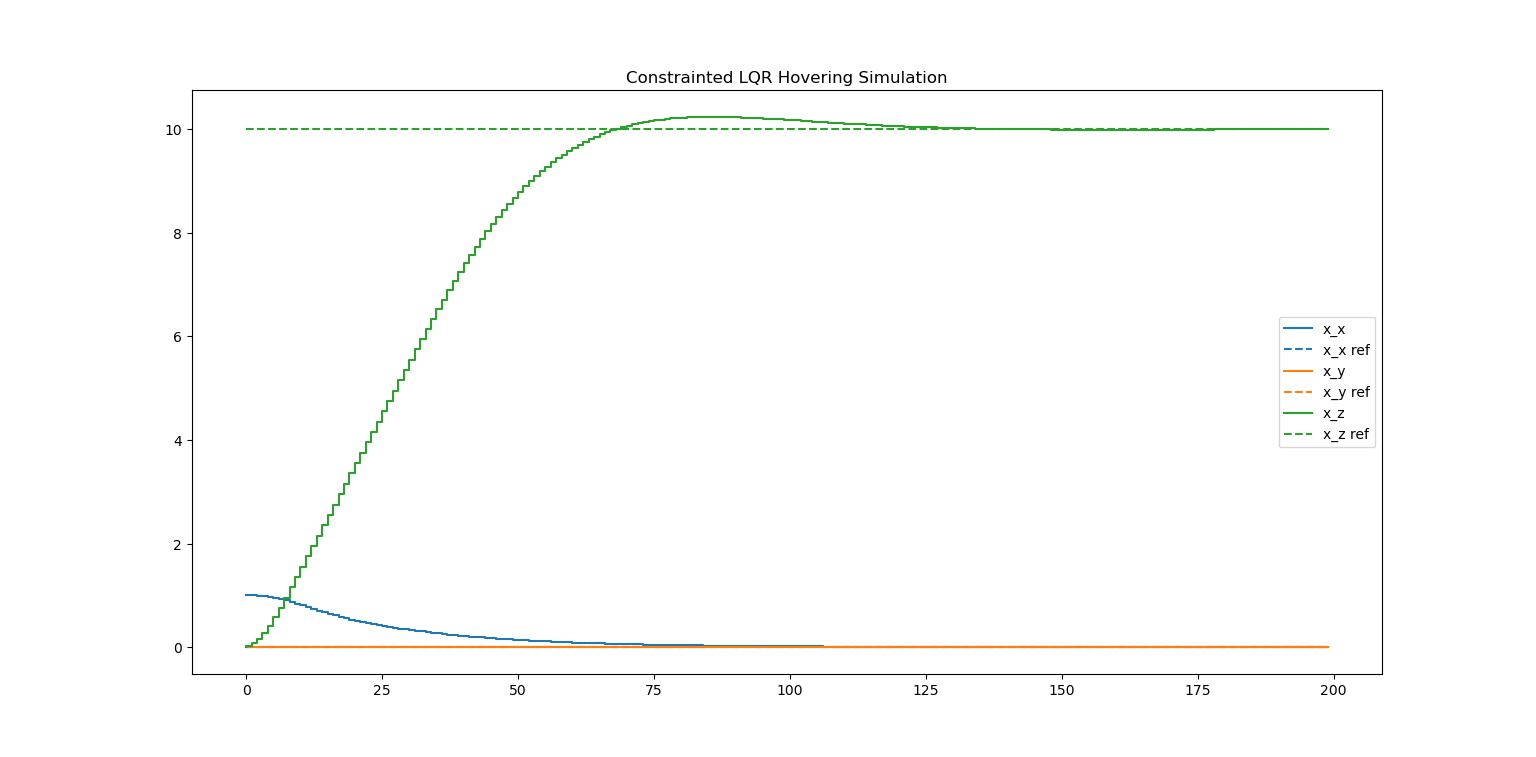
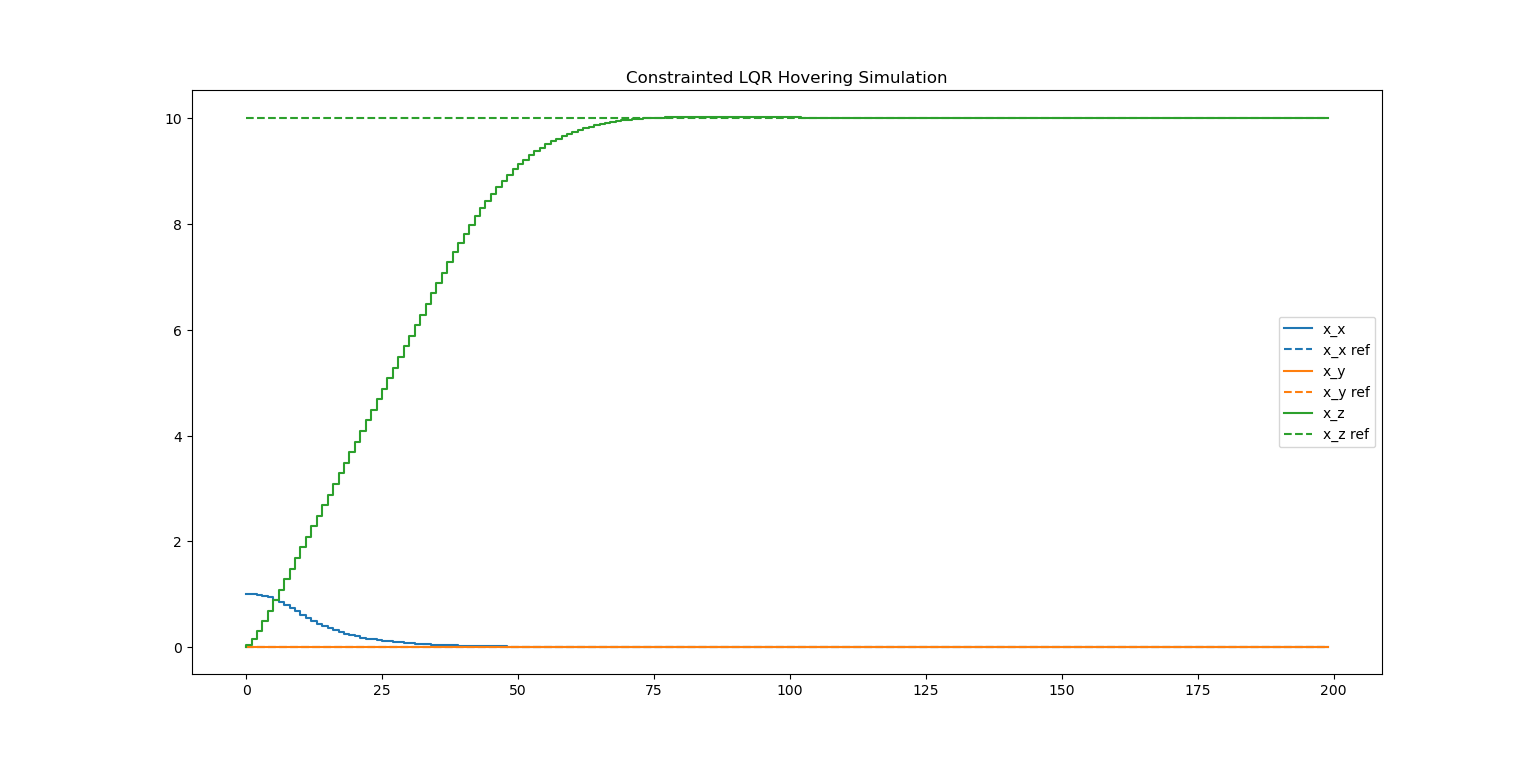
Terminal cost gain change from eyes to P

diff --git a/src/model/drone_dynamics.py b/src/model/drone_dynamics.py
@@ -30,7 +30,7 @@ class Quadrotor:
         x_operating = np.zeros((12, 1))
         u_operating = np.array([10, 0, 0, 0]).reshape((-1, 1))  # hovering (mg 0 0 0)
         self.A, self.B, self.C, self.D = self.linearize(x_operating, u_operating)
-        self.K = self.make_dlqr_controller()
+        self.K, self.P = self.make_dlqr_controller()
 
     def build_x_dot(self):
         self.x_dot = ca.vertcat(self.x[1], -self.x[0] + self.u)
@@ -101,8 +101,8 @@ class Quadrotor:
         self.csys = sys_continuous
         sys_discrete = ctrl.c2d(sys_continuous, self.dt, method='zoh')
         self.dsys = sys_discrete
-        K, _, _ = ctrl.dlqr(self.dsys.A, self.dsys.B, Q, R)
-        return K
+        K, P, _ = ctrl.dlqr(self.dsys.A, self.dsys.B, Q, R)
+        return K, P
 
     def get_ss_bag_vectors(self, N):
         """N is the number of simulation steps, thus number of concatinated x vectors"""
@@ -113,8 +113,9 @@ class Quadrotor:
     def mpc(self, x0, x_goal, A_ineq, b_ineq, Q=np.eye(12), R=np.eye(4), N=10, render=True, deltaB=None, dynamic=False):
         x = cp.Variable((12, N))
         u = cp.Variable((4, N))
-        cost = sum(cp.quad_form(x[:, i] - x_goal.T, Q) + cp.quad_form(u[:, i], R) for i in range(N))
-        cost += cp.quad_form(x[:3,N-1] - x_goal[:3], np.eye(3))
+        cost = sum(cp.quad_form(x[:, i] - x_goal.T, Q) + cp.quad_form(u[:, i], R) for i in range(N)) # stage cost
+        #cost += cp.quad_form(x[:3,N-1] - x_goal[:3], np.eye(3)) # terminal cost
+        cost += cp.quad_form(x[:, N-1] - x_goal.T, self.P) # terminal cost
         obj = cp.Minimize(cost)
 
         cons = [x[:, 0] == x0]
@@ -170,6 +171,8 @@ class Quadrotor:
 if __name__ == "__main__":
     model = Quadrotor()
     print("A:", model.A, "\nB:", model.B, "\nC:", model.C, "\nD:", model.D)
+    print("K:", model.K.shape)
+    print("P:", model.P.shape)
 
     # Check controlability
     if np.linalg.matrix_rank(ctrl.ctrb(model.A, model.B)) == model.n_states:

diff --git a/src/MPC_sim.py b/src/MPC_sim.py
@@ -24,15 +24,20 @@ x_ref = trajectory_generation.hover_traj(time_steps)  # reference trajectory (st
 
 # # === MPC definition
 # # ===== Cost function
-# Q=np.diag([1,1,1,0,0,0,0,0,0,0,0,0])
+# # ====== Stage cost
+# Q=np.eye(12)
 # R=np.eye(4)
+# # ====== Terminal cost
+# P = drone_model.P # Solution of the discrete time algebraic Riccati equation
 # # ===== Prediction Horizon
 # N=10
 # # ===== Constraints
 # # ======= Input contraints
-# u_max = np.array([29.4, 1.4715, 1.4715, 0.0196])
-# u_min = np.array([-9.8, -1.4715, -1.4715, -0.0196])
+# u_max = np.array([30, 1.4715, 1.4715, 0.0196])
+# u_min = np.array([-10, -1.4715, -1.4715, -0.0196])
 # # ======= State constraints
+# x_max = np.array([np.inf, np.inf, np.inf, np.pi/2, np.pi/2, np.inf, 2, 2, 2, np.inf, np.inf, np.inf])
+# x_min = np.array([-np.inf, -np.inf, -np.inf, -np.pi/2, -np.pi/2, -np.inf, -2, -2, -2, -np.inf, -np.inf, -np.inf])
 
 # Simulation
 for k in range(time_steps-1):

diff --git a/src/LQR_sim.py b/src/LQR_sim.py
@@ -32,10 +32,6 @@ x_bag[:, 0] = x0
 u_bag[:, 0] = u0
 x_ref = trajectory_generation.hover_traj(time_steps)  # reference trajectory (state)
 
-# input contraints
-u_max = np.array([29.4, 1.4715, 1.4715, 0.0196])
-u_min = np.array([-9.8, -1.4715, -1.4715, -0.0196])
-
 # simulate the drone dynamics
 for k in range(time_steps-1):
     x_current = x_bag[:, k]
